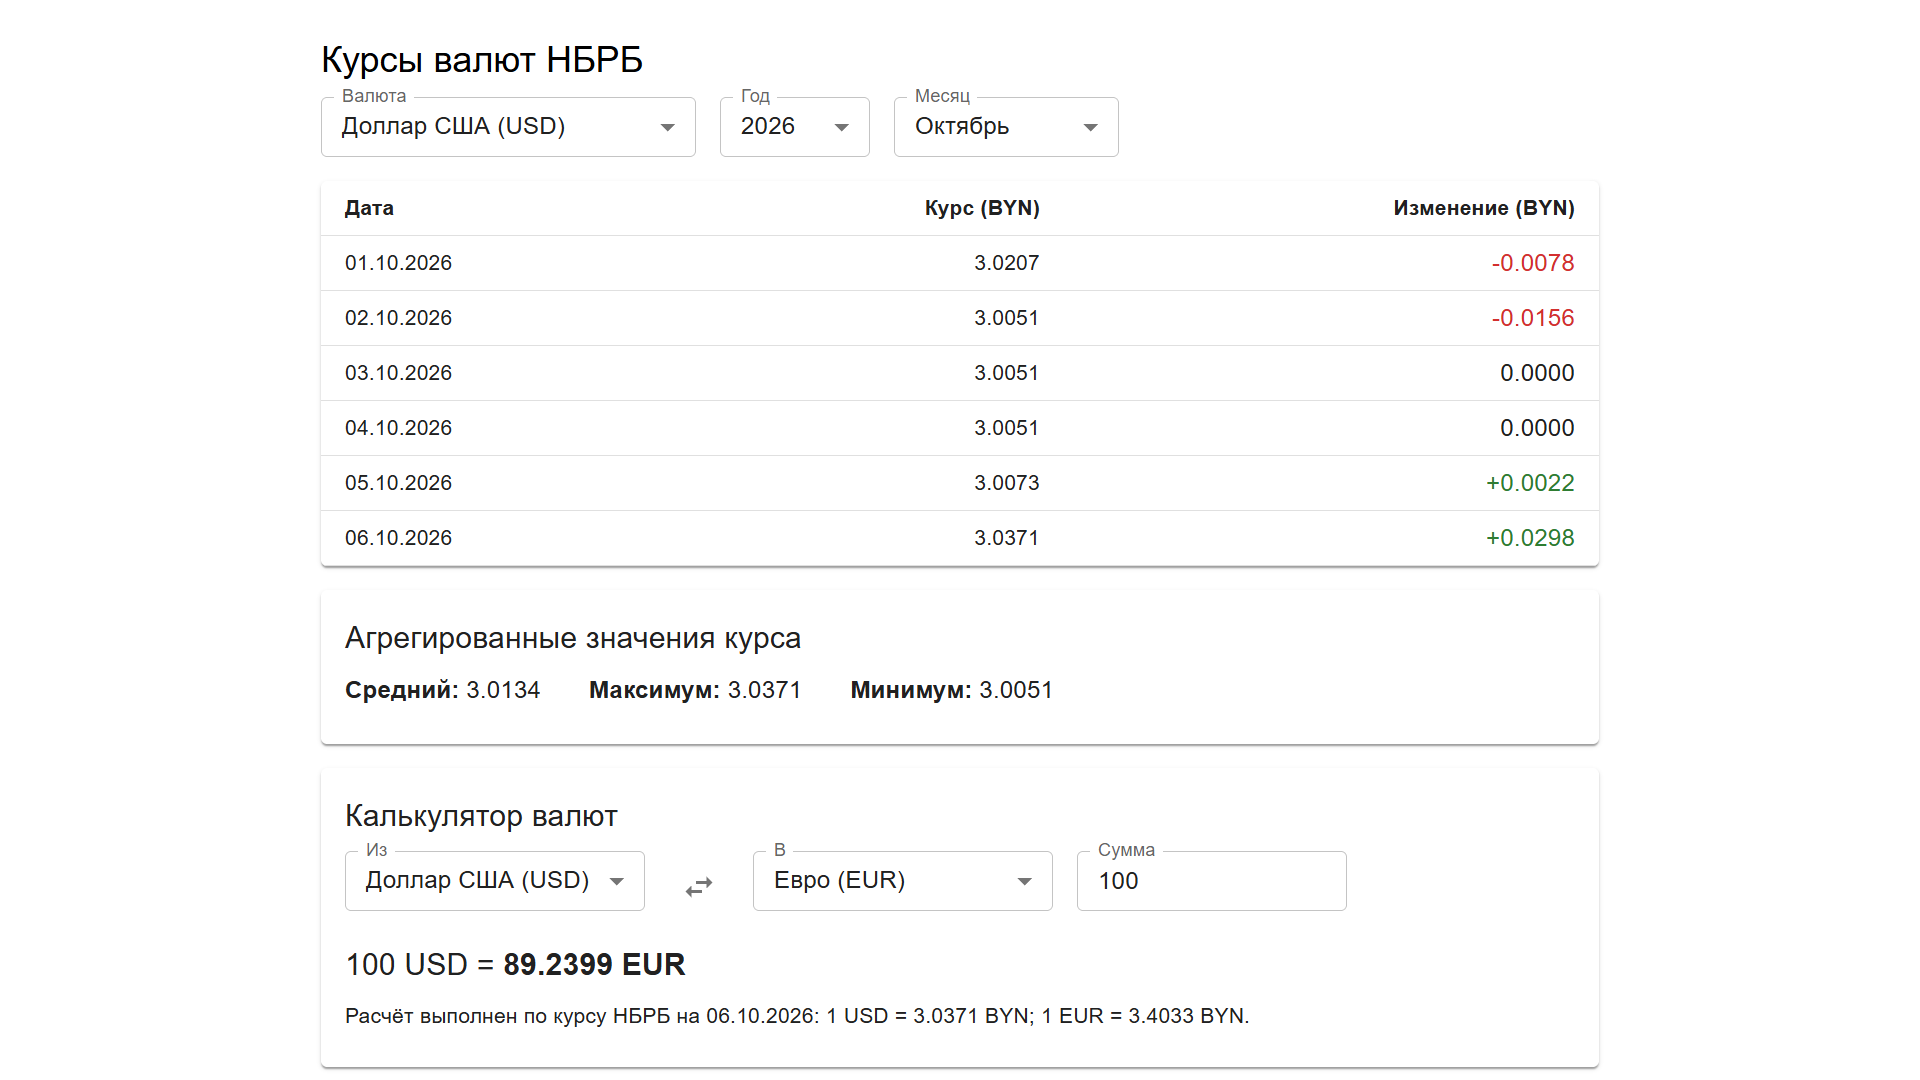
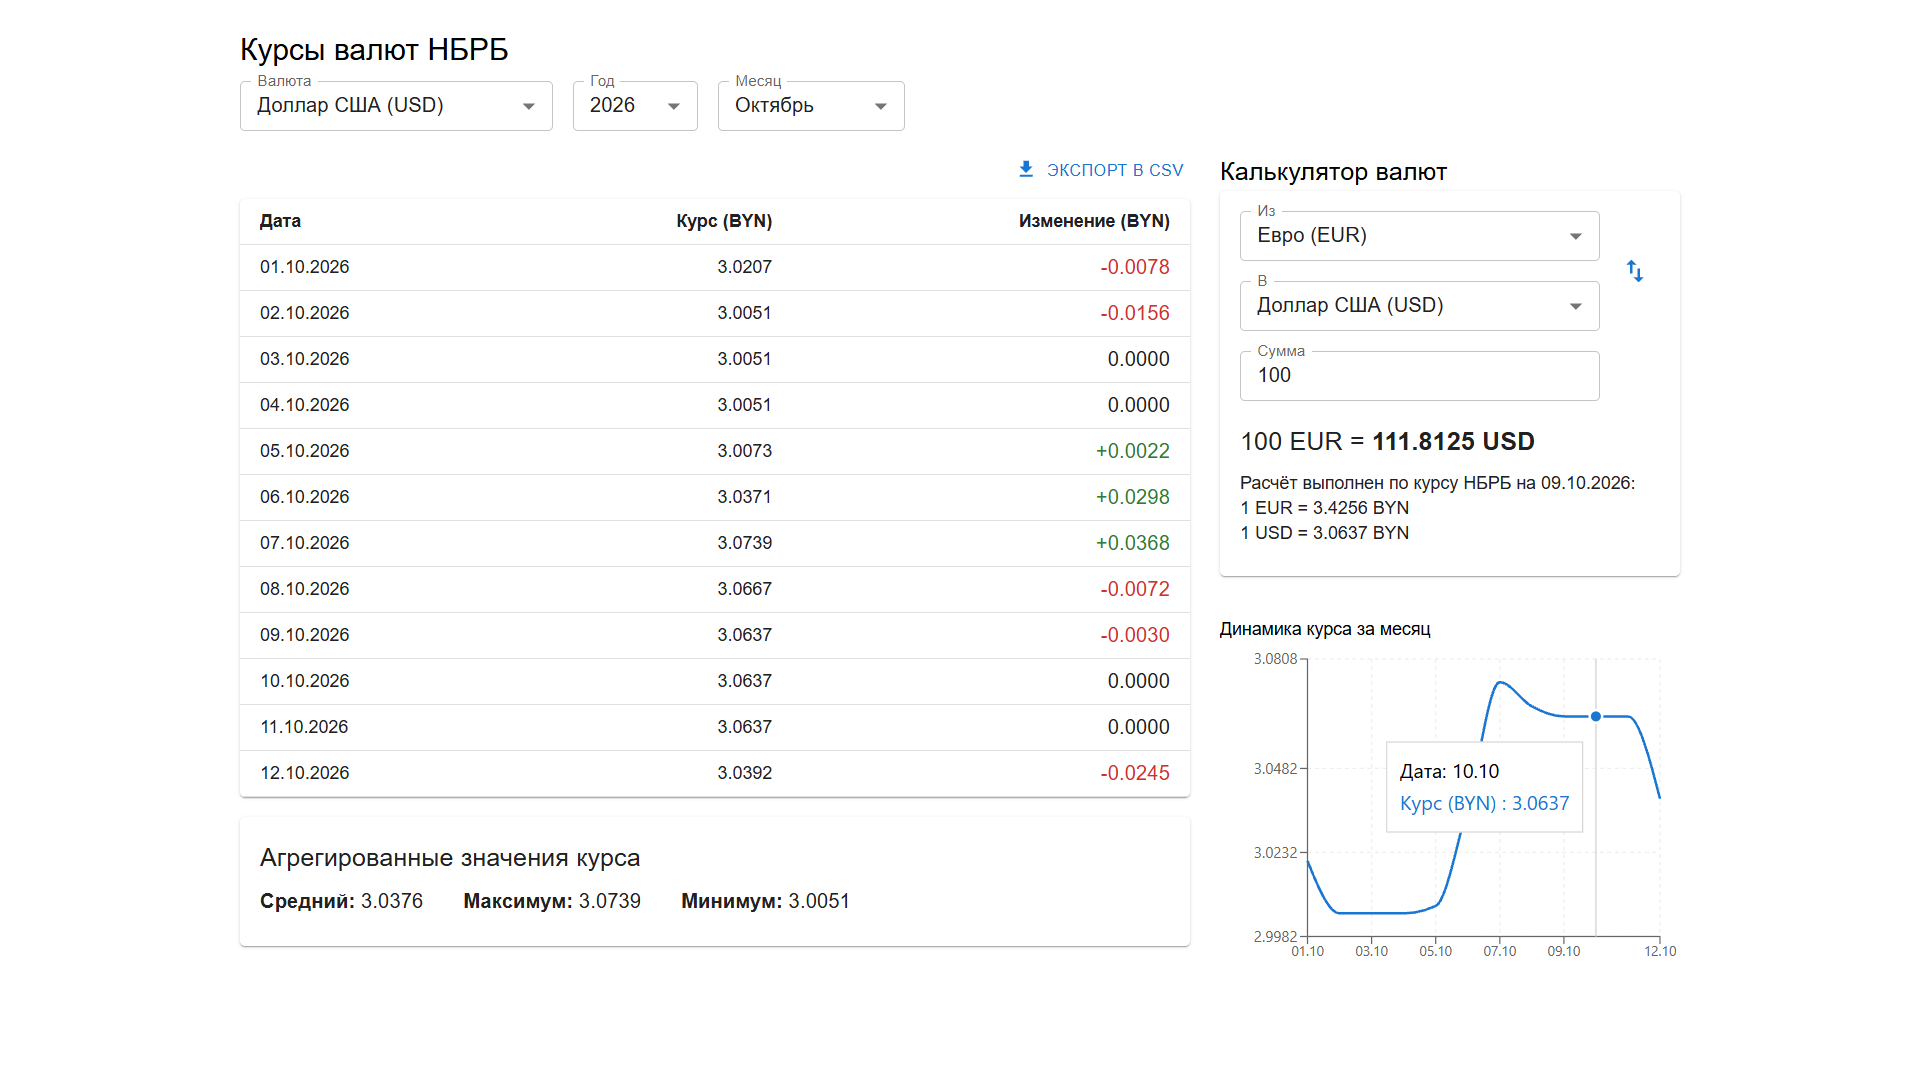
docs: update README with chart, CSV export and data source switch

diff --git a/README.md b/README.md
@@ -1,15 +1,17 @@
 # CurrencyApp — Курсы валют НБРБ
 
-Веб-приложение для просмотра официальных курсов валют Национального банка Республики Беларусь (НБРБ) с возможностью анализа и конвертации.
+Веб-приложение для просмотра официальных курсов валют Национального банка Республики Беларусь (НБРБ) с возможностью анализа, конвертации и экспорта данных.
 
 ## 📋 Функциональность
 
 - **Просмотр курсов** — таблица курсов выбранной валюты за каждый день месяца
 - **Анализ изменений** — изменение курса относительно предыдущего дня
 - **Агрегаты** — средний, максимальный и минимальный курс за месяц
+- **График курса** — линейный график динамики курса за месяц
 - **Калькулятор валют** — конвертация между любыми валютами через кросс-курс BYN
+- **Экспорт в CSV** — выгрузка таблицы курсов в CSV-файл
 - **Кэширование** — текущие курсы кэшируются на 1 час для снижения нагрузки на API НБРБ
-- **Два источника данных** — API НБРБ или локальные CSV-файлы (переключается через конфиг)
+- **Два источника данных** — API НБРБ или локальные CSV-файлы
 
 ## 🛠 Стек технологий
 
@@ -25,6 +27,8 @@
 - **MUI (Material UI)** — UI-компоненты
 - **TanStack Query (React Query)** — работа с API
 - **Axios** — HTTP-клиент
+- **Recharts** — график курса
+- **PapaParse** — экспорт в CSV
 
 ## 🚀 Запуск
 
@@ -53,29 +57,24 @@ cd currency-app
 
 #### Backend
 
-В первом терминале (из корня проекта):
+В первом терминале:
 ```bash
 cd CurrencyApp.Api
 dotnet run
 ```
 
-
-
 #### Frontend
 
-Во втором терминале (из корня проекта):
+Во втором терминале:
 ```bash
 cd CurrencyApp.Client
 npm install
 npm run dev
 ```
 
-
-
 ## 🔌 Источник данных
 
 В **CurrencyApp.Api/appsettings.json**:
-
 ```json
 {
   "DataSource": {
@@ -85,9 +84,14 @@ npm run dev
 ```
 
 Возможные значения:
-
 - **`Api`** — данные из API НБРБ (по умолчанию)
 - **`File`** — данные из CSV-файлов в `CurrencyApp.Api/Data/`
+
+Значение можно **переопределить** при запуске (без правки файла):
+```bash
+cd CurrencyApp.Api
+dotnet run -- --DataSource:Type=File
+```
 
 ## 🗂 Архитектура
 
@@ -108,8 +112,14 @@ CurrencyApp/
 └── CurrencyApp.Client/               # Frontend (React)
     └── src/
         ├── api/                      # HTTP-клиент
-        ├── components/               # React-компоненты
+        ├── components/
+        │   ├── sections/             # Секции страницы
+        │   ├── ConverterCard.tsx
+        │   ├── RatesChart.tsx
+        │   └── ShimmerOverlay.tsx
+        ├── hooks/                    # Кастомные хуки
         ├── types/                    # TypeScript-типы
+        ├── utils/                    # Утилиты (exportToCsv)
         └── App.tsx
 ```
 
